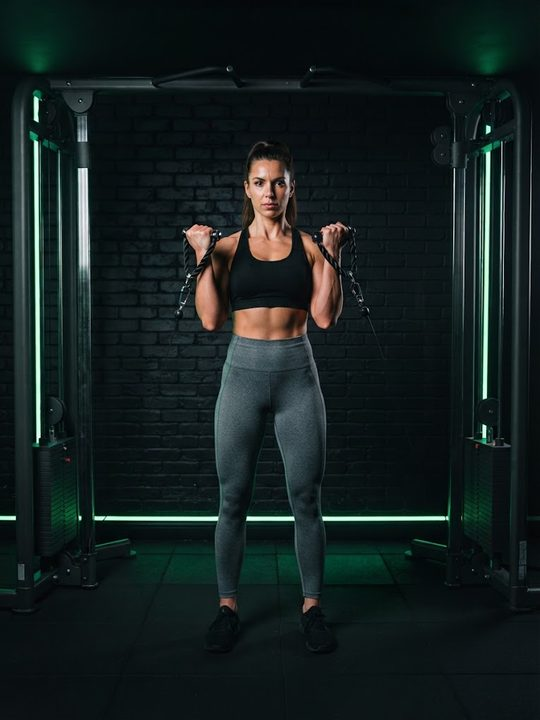
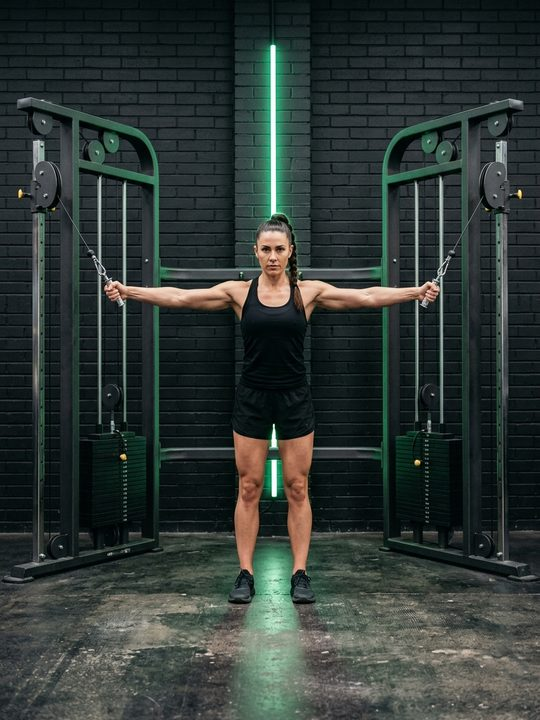
Frauen-GIF high_cable_curls
Claude-Session: https://claude.ai/code/session_01PvyiLGJFyas6muFwwubScP

diff --git a/script.js b/script.js
@@ -528,7 +528,7 @@ function renderOverview() {
 // V8-04: Wochenplan-Einträge (haben trainingId) sind anklickbar -> Detailseite mit Dauer/Kalorien.
 // V6-08: Verlauf als Foto-Kacheln mit Wochenkopf, Gruppierung nach Woche/Monat.
 let imgSet = new Set();
-fetch('img/index.json?v=484').then(r => r.json()).then(a => { imgSet = new Set(a); }).catch(() => {});
+fetch('img/index.json?v=485').then(r => r.json()).then(a => { imgSet = new Set(a); }).catch(() => {});
 function slugOf(g) { return (g || '').replace(/^gifs\//, '').replace(/\.gif$/, ''); }
 // Foto passend zum Profil (m/w); ohne Foto -> GIF
 function imgOf(ex) {
